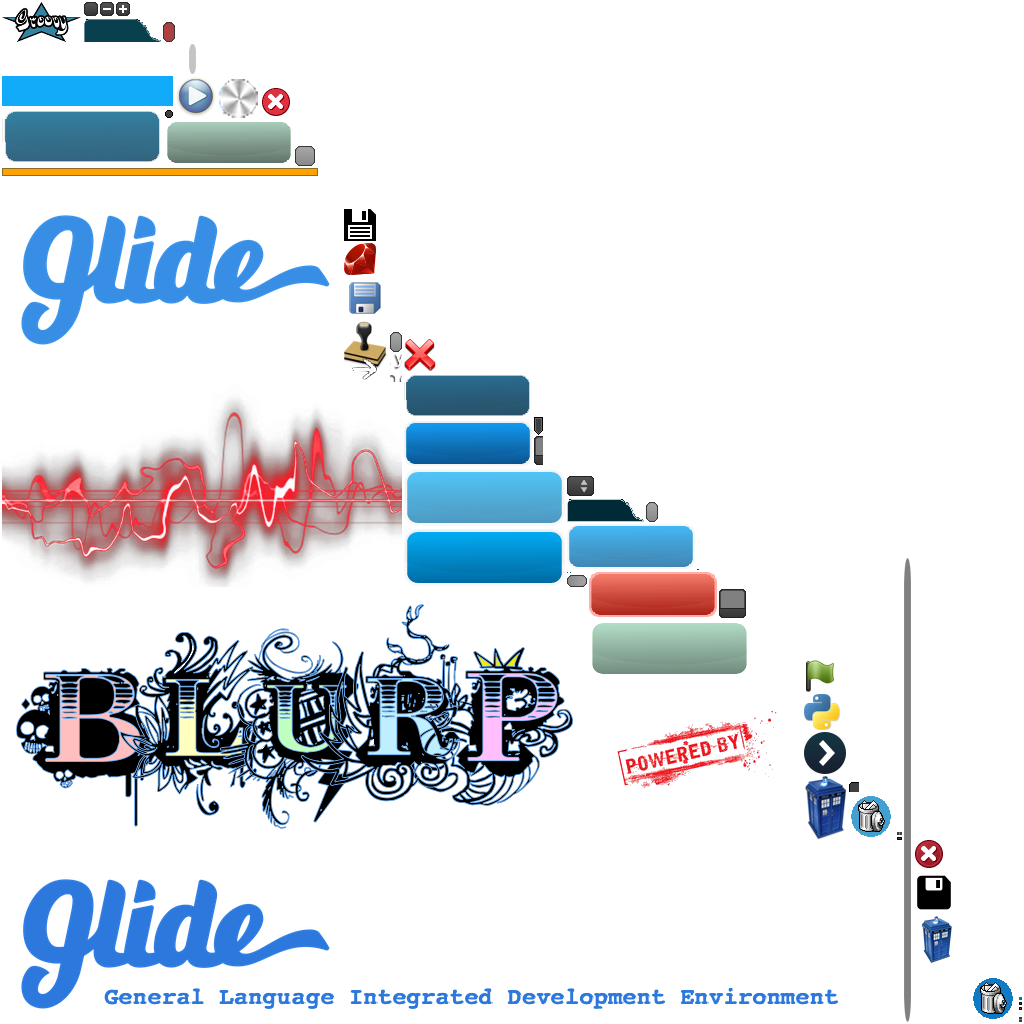
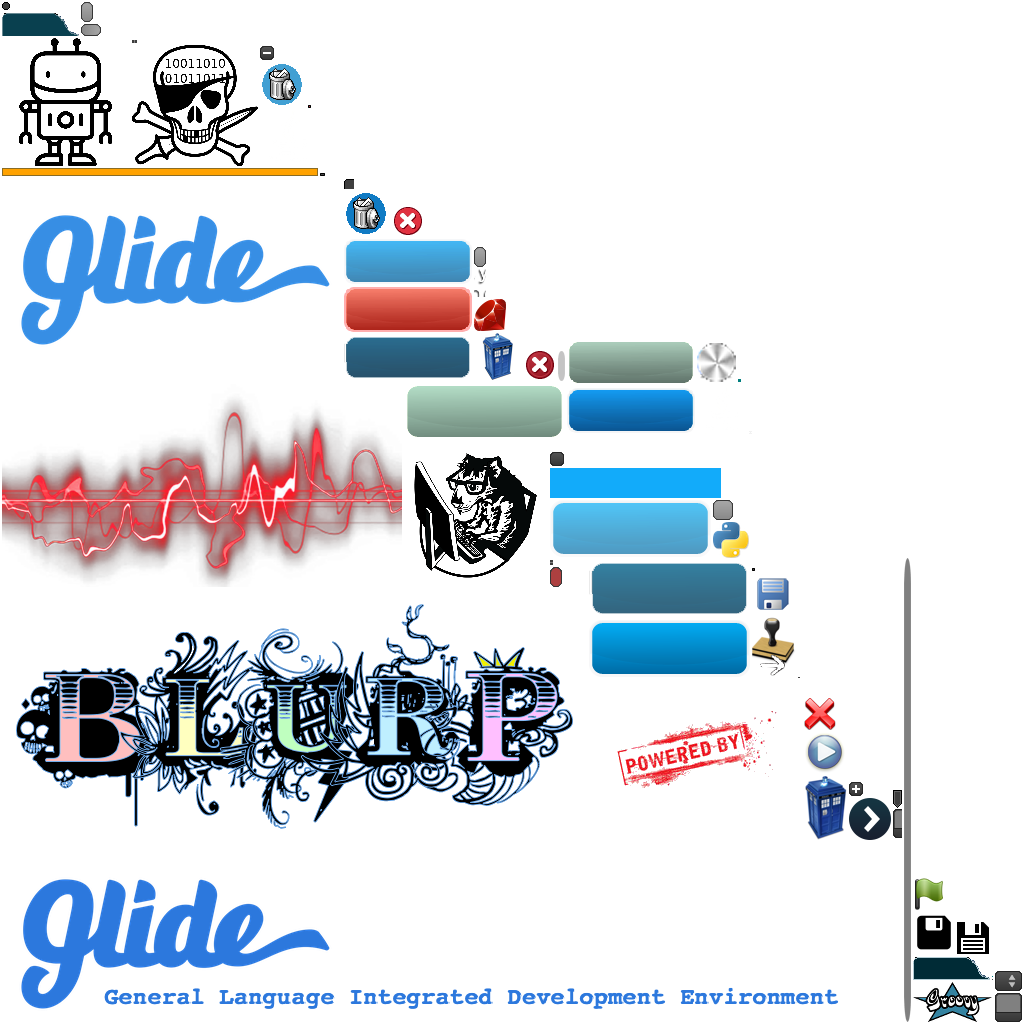
Hacker images above columns

Changed region(s): [[0.3125, 0.1875, 1.0, 1.0], [0.0, 0.0, 0.3125, 0.1875]]

diff --git a/core/src/com/bigcustard/glide/screen/SampleLibraryDialog.java b/core/src/com/bigcustard/glide/screen/SampleLibraryDialog.java
@@ -1,11 +1,15 @@
 package com.bigcustard.glide.screen;
 
+import com.badlogic.gdx.graphics.Color;
 import com.badlogic.gdx.scenes.scene2d.Actor;
 import com.badlogic.gdx.scenes.scene2d.Stage;
 import com.badlogic.gdx.scenes.scene2d.ui.Button;
+import com.badlogic.gdx.scenes.scene2d.ui.Image;
 import com.badlogic.gdx.scenes.scene2d.ui.ImageTextButton;
+import com.badlogic.gdx.scenes.scene2d.ui.Label;
 import com.badlogic.gdx.scenes.scene2d.ui.Skin;
 import com.badlogic.gdx.scenes.scene2d.ui.TextButton;
+import com.badlogic.gdx.utils.Align;
 import com.badlogic.gdx.utils.Disposable;
 import com.bigcustard.glide.code.Game;
 import com.bigcustard.glide.code.GameStore;
@@ -22,6 +26,7 @@ import java.util.HashMap;
 import java.util.List;
 import java.util.Map;
 import java.util.function.Consumer;
+import java.util.stream.Stream;
 
 public class SampleLibraryDialog extends GameLibraryDialog implements Disposable {
     private Map<Integer, List<Game.Token>> games = new HashMap<>();
@@ -86,6 +91,20 @@ public class SampleLibraryDialog extends GameLibraryDialog implements Disposable
     }
 
     private void layoutGameButtons(Skin skin, boolean readOnly) {
+        Stream.of(1, 2, 3).forEach(level ->
+                getButtonTable().add(new Image(skin, "level" + level)).padTop(10)
+        );
+        getButtonTable().row();
+        Stream.of(1, 2, 3).forEach(level -> {
+                    Label small = new Label("Level " + level + " Hacker", skin, "small");
+                    small.setColor(Color.YELLOW);
+                    small.setAlignment(Align.center);
+                    getButtonTable().add(small).center().fillX().padTop(-12).padBottom(6);
+                }
+        );
+        getButtonTable().row();
+
+
         for (int row = 0; ; row++) {
             boolean emptyRow = true;
             for (int level = 0; level < 3; level++) {
@@ -93,7 +112,7 @@ public class SampleLibraryDialog extends GameLibraryDialog implements Disposable
                     Game.Token game = games.get(level).get(row);
                     emptyRow = false;
                     ImageTextButton button = createButton(skin, game);
-                    getButtonTable().add(button).fillX().spaceLeft(10).spaceRight(10).padLeft(10).padRight(6).padTop(6);
+                    getButtonTable().add(button).fillX().spaceLeft(10).spaceRight(15).padLeft(15).padRight(6).padTop(6);
                     setObject(button, game);
                 }
             }
